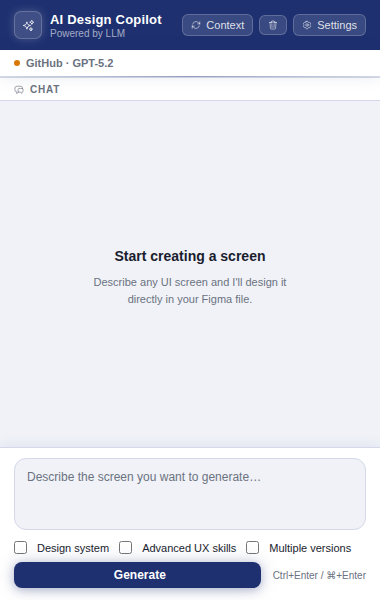
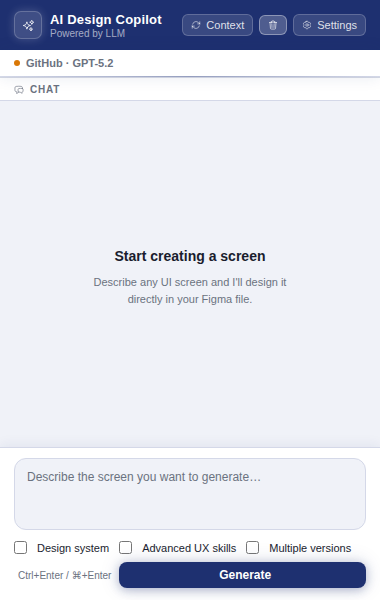
Adjust generate button to right and refresh main screenshots

Changed region(s): [[0.5789, 0.93, 0.9842, 0.99], [0.0289, 0.93, 0.4342, 0.99], [0.6658, 0.03, 0.7526, 0.06]]

diff --git a/ui.html b/ui.html
@@ -606,6 +606,7 @@
       box-shadow: 0 4px 16px rgba(30, 48, 112, 0.40), 0 0 28px rgba(30, 48, 112, 0.20);
     }
     .btn--primary:disabled { opacity: 0.55; cursor: not-allowed; box-shadow: none; }
+    #generate-btn #generate-icon { font-size: 11px; }
 
     .btn--ghost {
       background: transparent;
@@ -1161,17 +1162,17 @@
              style="width:52px" aria-label="Number of versions"/>
       <span style="color:var(--text-muted);font-size:11px">(max 5)</span>
     </div>
-    <!-- ── Bottom row: generate (left) + hint (right) ─ -->
+    <!-- ── Bottom row: hint (left) + generate (right) ─ -->
     <div class="input-bottom">
+      <p class="hint">
+        <i class="fa-solid fa-keyboard" aria-hidden="true"></i>
+        Ctrl+Enter / ⌘+Enter
+      </p>
       <button class="btn btn--primary" id="generate-btn" type="button">
         <span id="spinner" class="spinner hidden"></span>
         <i class="fa-solid fa-wand-magic-sparkles" id="generate-icon" aria-hidden="true"></i>
         <span id="generate-label">Generate</span>
       </button>
-      <p class="hint">
-        <i class="fa-solid fa-keyboard" aria-hidden="true"></i>
-        Ctrl+Enter / ⌘+Enter
-      </p>
     </div>
   </section>
 
